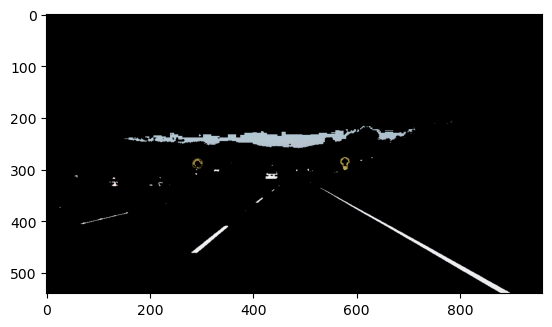
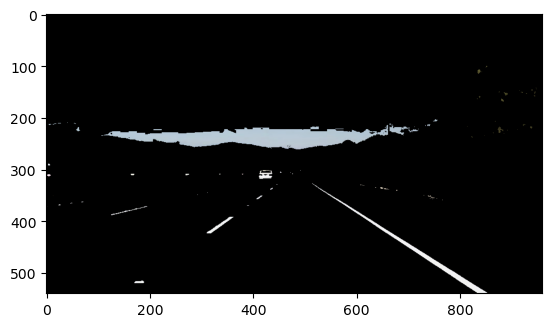
Update writeup imgs to the correct sizes

diff --git a/writeup.md b/writeup.md
@@ -4,10 +4,6 @@ The goals / steps of this project are the following:
 * Make a pipeline that finds lane lines on the road
 * Reflect on your work in a written report
 
-[//]: # (Image References)
-
-[image1]: ./examples/grayscale.jpg "Grayscale"
-
 ---
 
 ### Reflection
@@ -44,11 +40,11 @@ When the above issues are combined, we can foresee when a white or yellow car is
 
 3. The left-right line separation algorithm doesn't always categorize them correctly. Noticeably, some lines from either lane can have the "wrong" slope because of the perspective. This is especially true for the short horizontal lines on the ends of each marking.
 
-#### 2.1 Example of the colour masking issue
+#### 2.1 Example Change Due to Colour Masking Parameters
 
 ![image1](./writeup_imgs/low_yellow_sat_limit.png)
 
-For example, with a lower yellow saturation, there are noticeably more trees and grass from the right side compared to a higher yellow saturation as shown below.
+The above image uses a lower yellow saturation. Compared to the image below which uses a higher yellow saturation, there are noticeably more trees and grass on the right side.
 
 ![image1](./writeup_imgs/higher_yellow_sat_limit.png)
 
